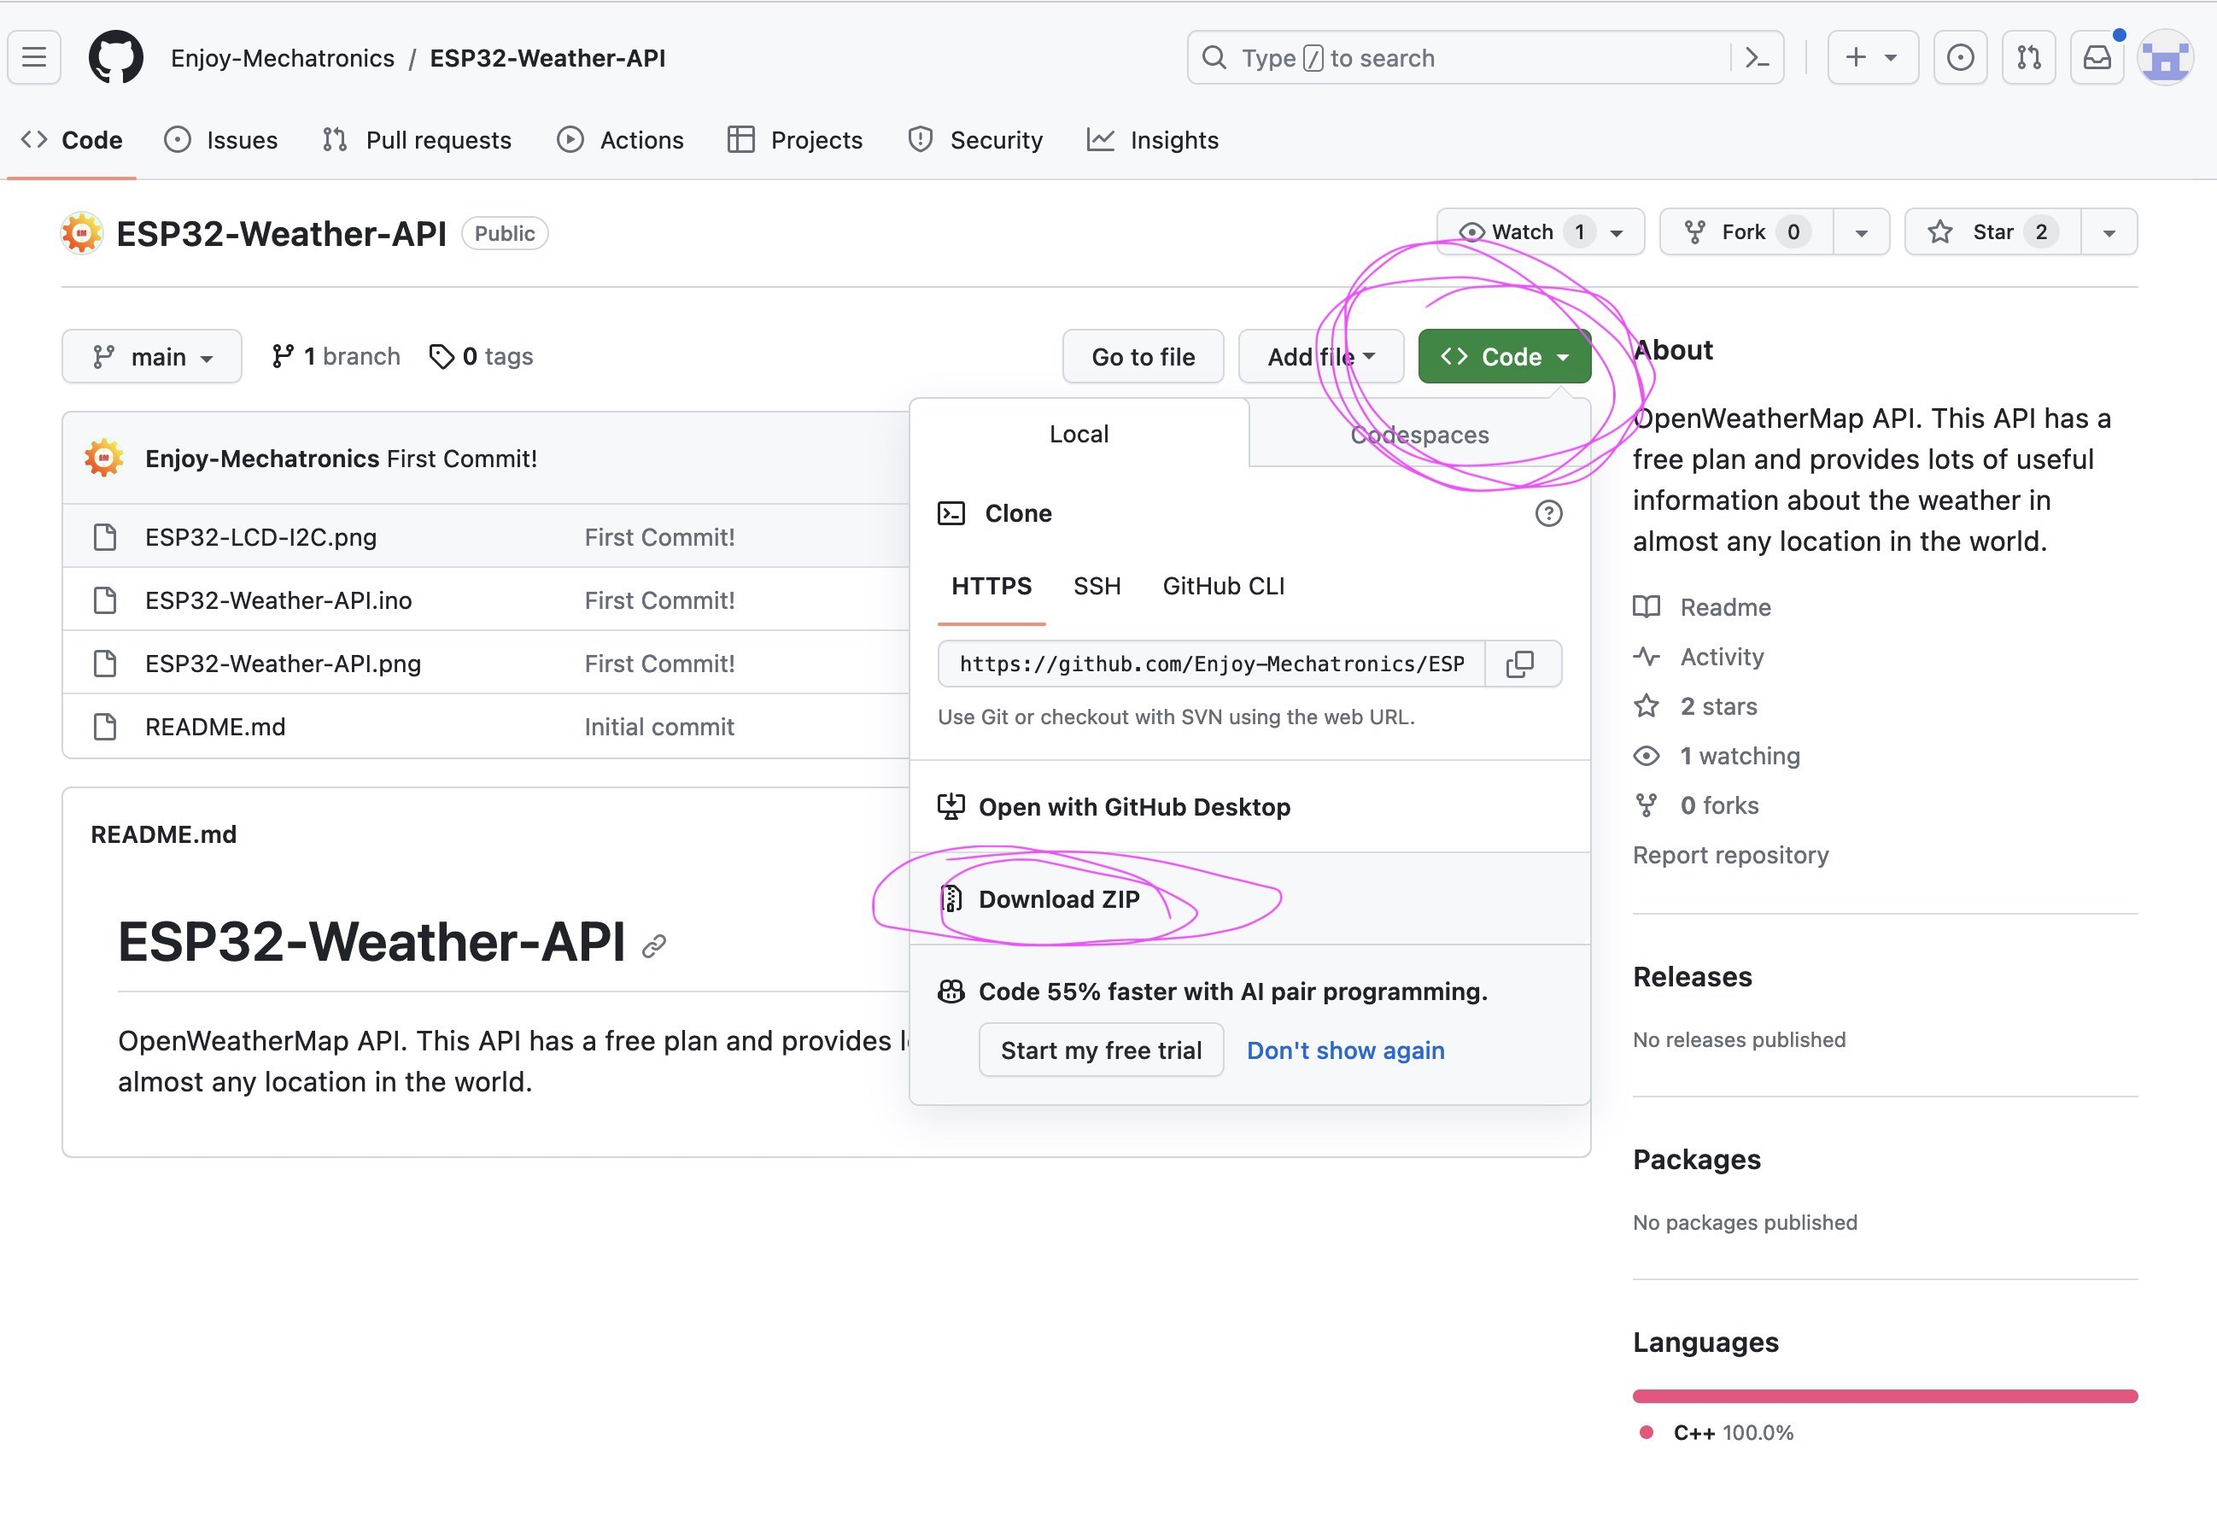
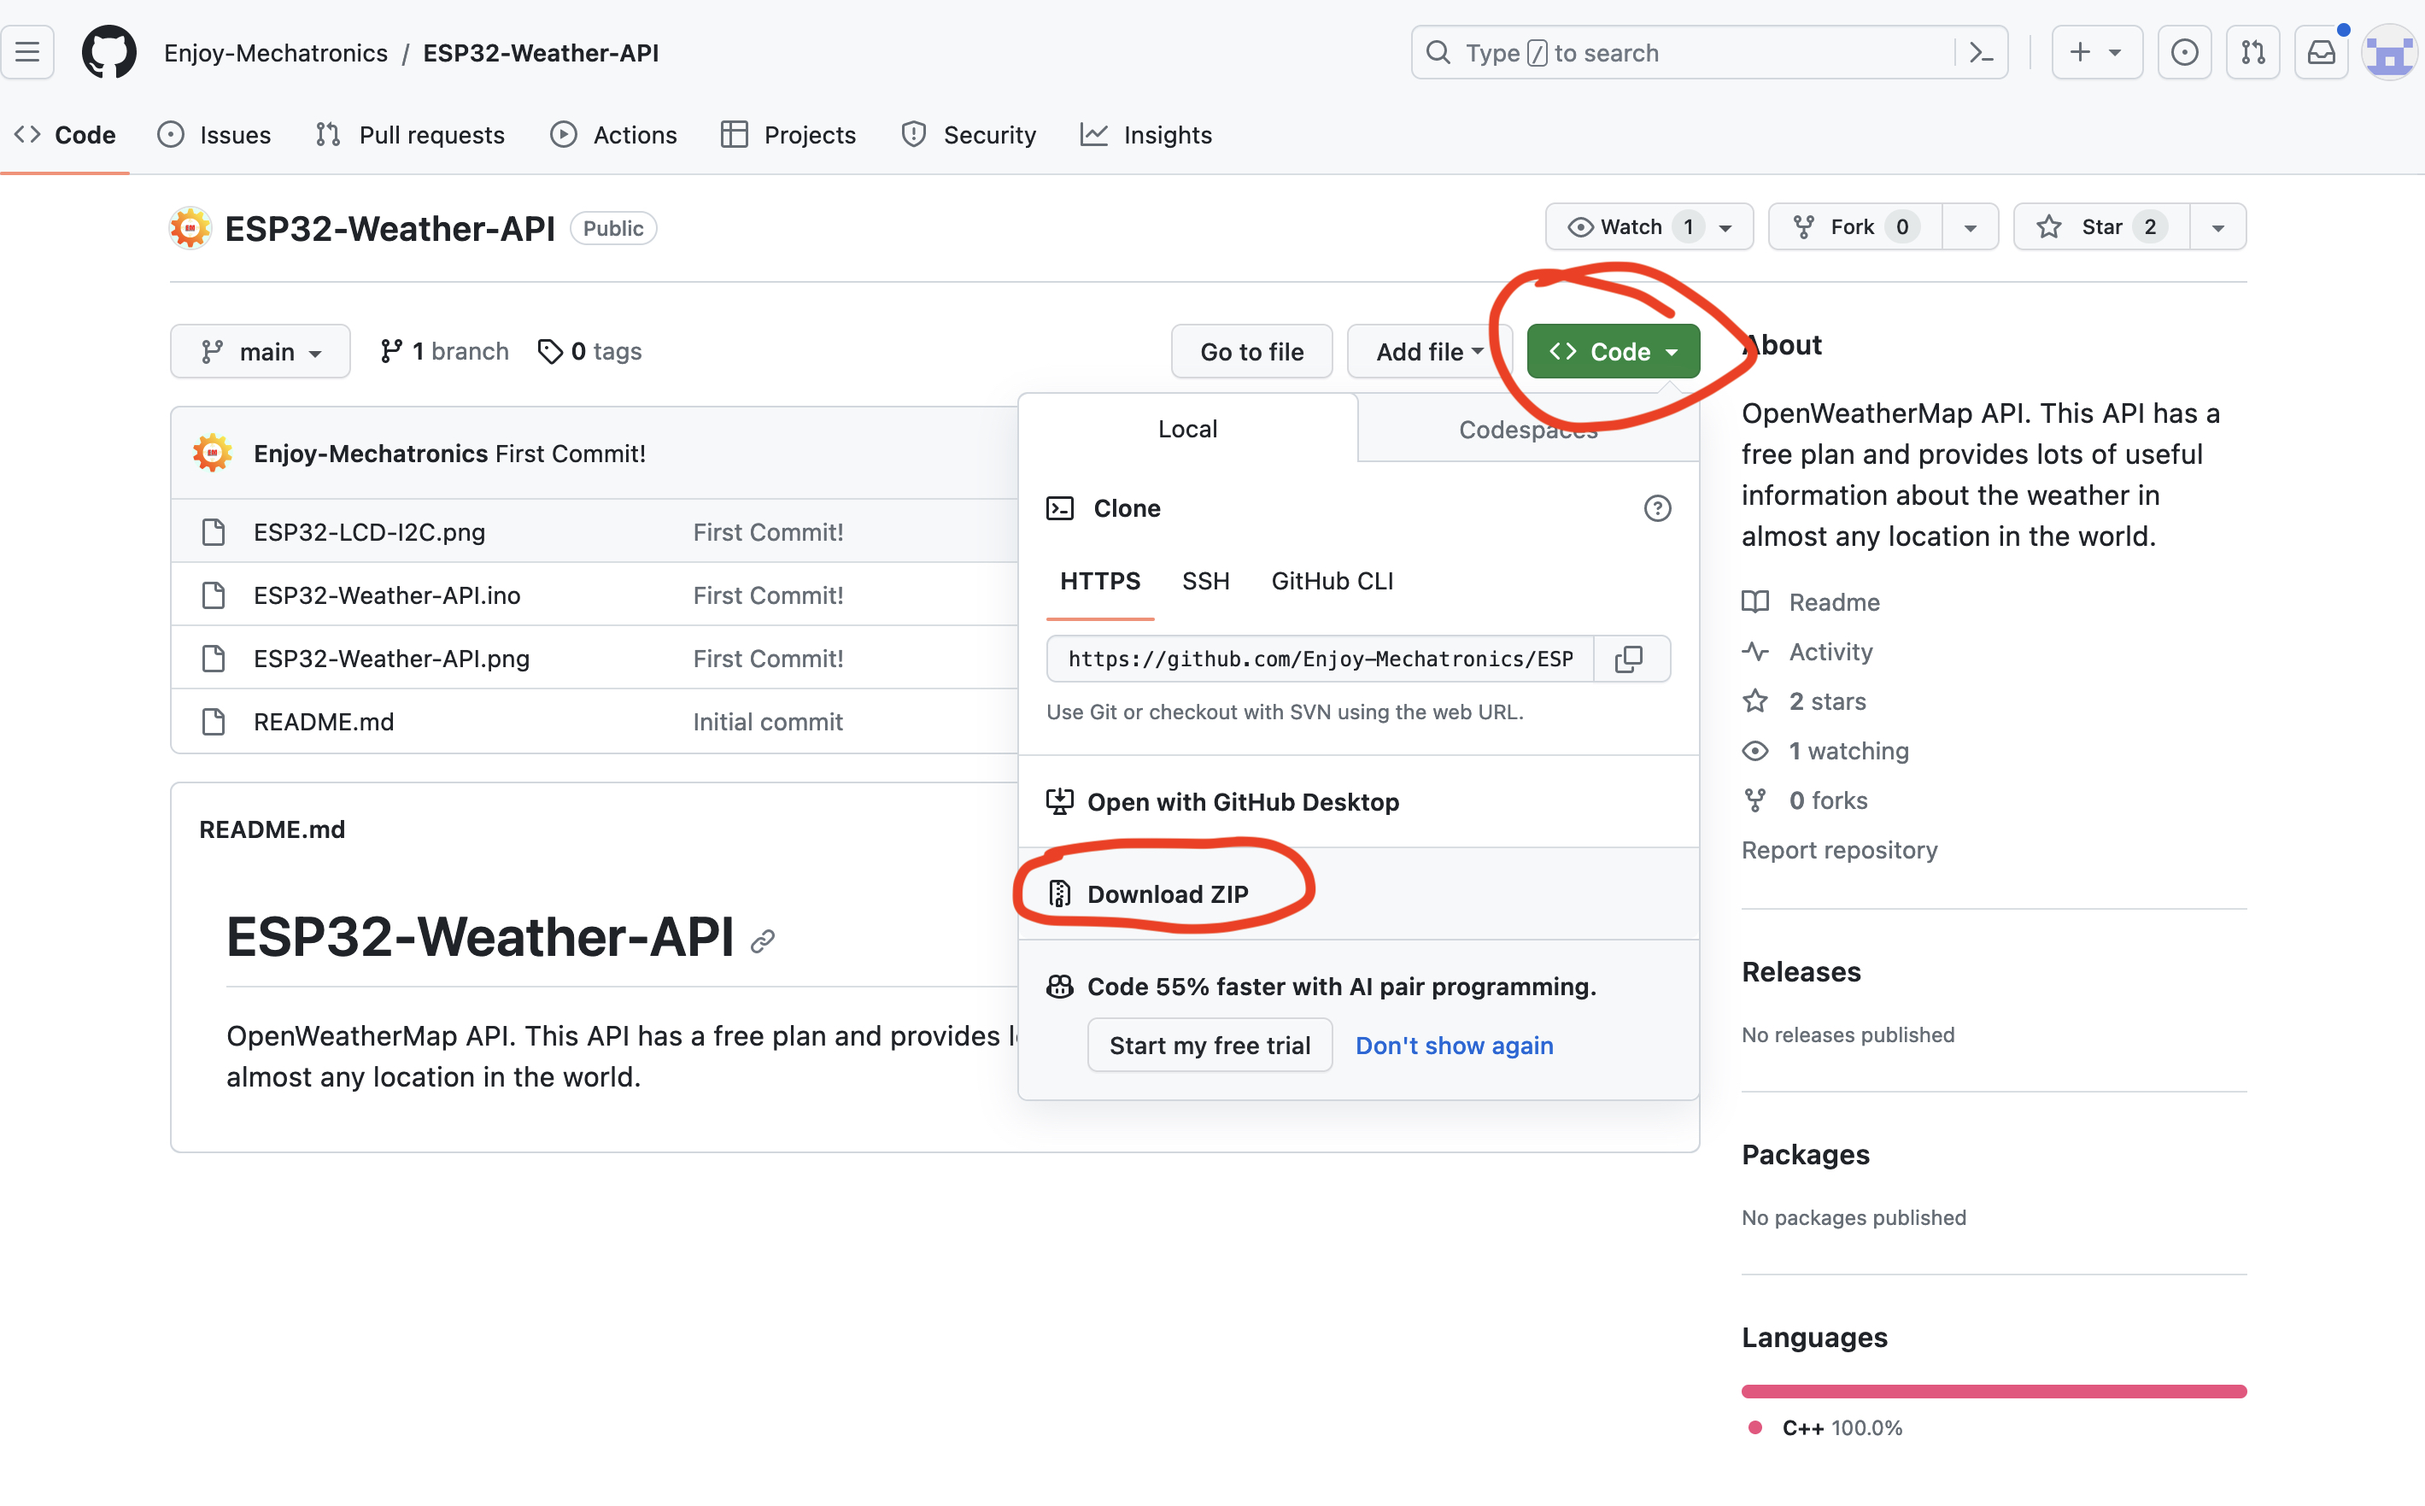
s

diff --git a/09_connecting/index.html b/09_connecting/index.html
@@ -36,7 +36,7 @@ I gathered the ESP32 board and the 2x16 LCD from the shop. Luckily there were I2
 
 It might not seem like a big accomplishment, but I am proud that I now sort of understand github file links. Prior to this week, I had no idea what I was looking at but now I know how to download the files:
 
-<img src="../images/github.jpg" alt="github page" width="2596" height="1781">
+<img src="../images/github.jpg" alt="github page" width="2839" height="1763">
 
 In order for the API to work, I needed to open an account with Open Weather in order to be given an API key: 6d401f2b44c97316f73b3d709be89c0f
 
